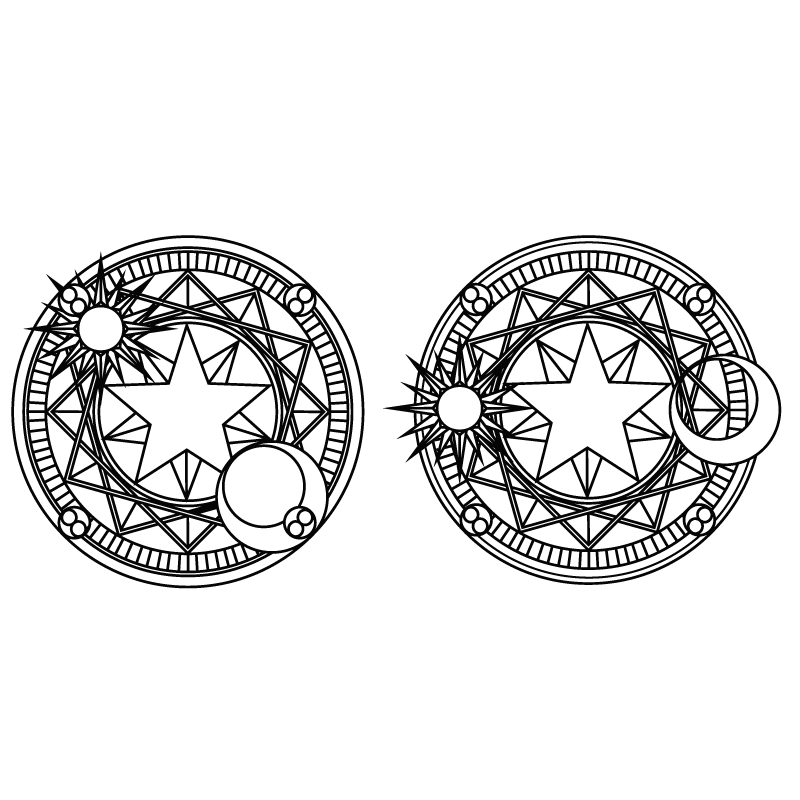
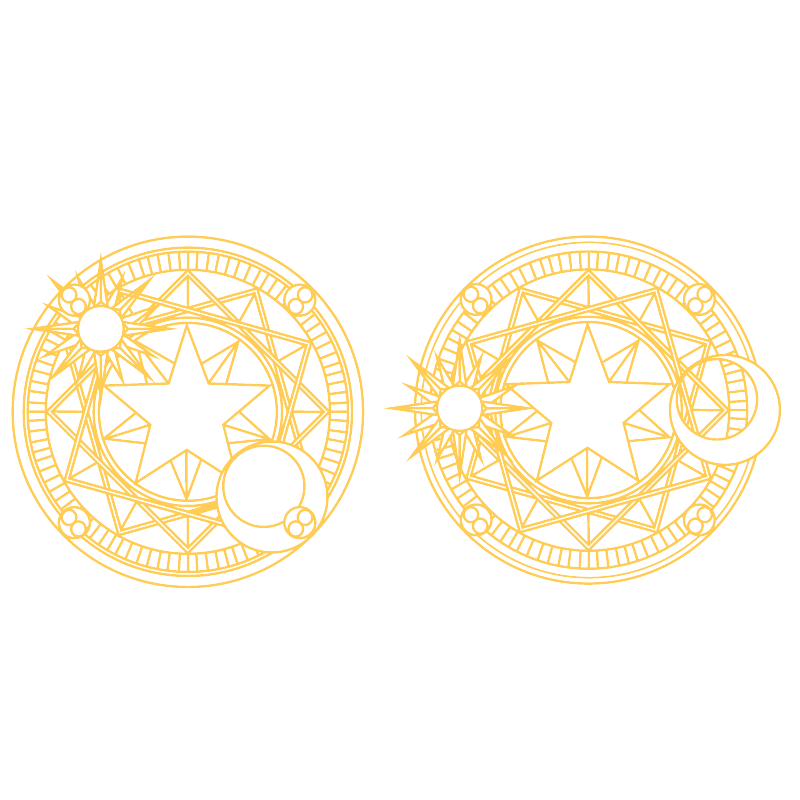
Fixed symbol rotation.

Changed region(s): [[0.5, 0.2812, 1.0, 0.75], [0.0, 0.2812, 0.4688, 0.75]]

diff --git a/wwwroot/reading_page.css b/wwwroot/reading_page.css
@@ -85,12 +85,17 @@ header {
 
 .symbols {
     flex: 1;
+    height: 10%;
+    width: auto;
+    left: 20px;
+    top: 20px;
 }
-
 .symbols > img {
-    height: inherit;
+    height: 18%;
     width: auto;
     position: absolute;
+    left: 20px;
+    top: 20px;
 }
 
 .user_data {
@@ -126,9 +131,9 @@ header {
 }
 
 .rotate_clocwize {
-    animation: rotate 2s infinite;
+    animation: rotate 4s linear infinite;
 }
 
 .rotate_counterclocwize {
-    animation: counter_rotate 2s ease infinite;
+    animation: counter_rotate 4s linear infinite;
 }

diff --git a/Migrations/20240918075543_Initial.Designer.cs b/Migrations/20240918075543_Initial.Designer.cs
@@ -1,0 +1,107 @@
+// <auto-generated />
+using System;
+using Microsoft.EntityFrameworkCore;
+using Microsoft.EntityFrameworkCore.Infrastructure;
+using Microsoft.EntityFrameworkCore.Metadata;
+using Microsoft.EntityFrameworkCore.Migrations;
+using Microsoft.EntityFrameworkCore.Storage.ValueConversion;
+using WebTarotReadings;
+
+#nullable disable
+
+namespace WebTarotReadings.Migrations
+{
+    [DbContext(typeof(AppDbContext))]
+    [Migration("20240918075543_Initial")]
+    partial class Initial
+    {
+        /// <inheritdoc />
+        protected override void BuildTargetModel(ModelBuilder modelBuilder)
+        {
+#pragma warning disable 612, 618
+            modelBuilder
+                .HasAnnotation("ProductVersion", "8.0.8")
+                .HasAnnotation("Relational:MaxIdentifierLength", 128);
+
+            SqlServerModelBuilderExtensions.UseIdentityColumns(modelBuilder);
+
+            modelBuilder.Entity("WebTarotReadings.Models.HoroscopeSignModel", b =>
+                {
+                    b.Property<int>("Id")
+                        .ValueGeneratedOnAdd()
+                        .HasColumnType("int");
+
+                    SqlServerPropertyBuilderExtensions.UseIdentityColumn(b.Property<int>("Id"));
+
+                    b.Property<string>("EndDate")
+                        .IsRequired()
+                        .HasColumnType("nvarchar(max)");
+
+                    b.Property<string>("Sign")
+                        .IsRequired()
+                        .HasColumnType("nvarchar(max)");
+
+                    b.Property<string>("StartDate")
+                        .IsRequired()
+                        .HasColumnType("nvarchar(max)");
+
+                    b.HasKey("Id");
+
+                    b.ToTable("HoroscopeSigns");
+                });
+
+            modelBuilder.Entity("WebTarotReadings.Models.TarotCardsModel", b =>
+                {
+                    b.Property<int>("Id")
+                        .ValueGeneratedOnAdd()
+                        .HasColumnType("int");
+
+                    SqlServerPropertyBuilderExtensions.UseIdentityColumn(b.Property<int>("Id"));
+
+                    b.Property<string>("CardName")
+                        .IsRequired()
+                        .HasColumnType("nvarchar(max)");
+
+                    b.Property<bool>("IsReversed")
+                        .HasColumnType("bit");
+
+                    b.Property<string>("Meaning")
+                        .IsRequired()
+                        .HasColumnType("nvarchar(max)");
+
+                    b.HasKey("Id");
+
+                    b.ToTable("TarotCards");
+                });
+
+            modelBuilder.Entity("WebTarotReadings.Models.UserModel", b =>
+                {
+                    b.Property<int>("Id")
+                        .ValueGeneratedOnAdd()
+                        .HasColumnType("int");
+
+                    SqlServerPropertyBuilderExtensions.UseIdentityColumn(b.Property<int>("Id"));
+
+                    b.Property<DateTime>("BirthDate")
+                        .HasColumnType("datetime2");
+
+                    b.Property<string>("Email")
+                        .HasColumnType("nvarchar(max)");
+
+                    b.Property<string>("HoroscopeSign")
+                        .HasColumnType("nvarchar(max)");
+
+                    b.Property<string>("Password")
+                        .HasColumnType("nvarchar(max)");
+
+                    b.Property<string>("Username")
+                        .HasColumnType("nvarchar(max)");
+
+                    b.HasKey("Id");
+
+                    b.ToTable("Users");
+                });
+#pragma warning restore 612, 618
+        }
+    }
+}

diff --git a/Migrations/20240918075543_Initial.cs b/Migrations/20240918075543_Initial.cs
@@ -1,0 +1,75 @@
+using System;
+using Microsoft.EntityFrameworkCore.Migrations;
+
+#nullable disable
+
+namespace WebTarotReadings.Migrations
+{
+    /// <inheritdoc />
+    public partial class Initial : Migration
+    {
+        /// <inheritdoc />
+        protected override void Up(MigrationBuilder migrationBuilder)
+        {
+            migrationBuilder.CreateTable(
+                name: "HoroscopeSigns",
+                columns: table => new
+                {
+                    Id = table.Column<int>(type: "int", nullable: false)
+                        .Annotation("SqlServer:Identity", "1, 1"),
+                    Sign = table.Column<string>(type: "nvarchar(max)", nullable: false),
+                    StartDate = table.Column<string>(type: "nvarchar(max)", nullable: false),
+                    EndDate = table.Column<string>(type: "nvarchar(max)", nullable: false)
+                },
+                constraints: table =>
+                {
+                    table.PrimaryKey("PK_HoroscopeSigns", x => x.Id);
+                });
+
+            migrationBuilder.CreateTable(
+                name: "TarotCards",
+                columns: table => new
+                {
+                    Id = table.Column<int>(type: "int", nullable: false)
+                        .Annotation("SqlServer:Identity", "1, 1"),
+                    CardName = table.Column<string>(type: "nvarchar(max)", nullable: false),
+                    IsReversed = table.Column<bool>(type: "bit", nullable: false),
+                    Meaning = table.Column<string>(type: "nvarchar(max)", nullable: false)
+                },
+                constraints: table =>
+                {
+                    table.PrimaryKey("PK_TarotCards", x => x.Id);
+                });
+
+            migrationBuilder.CreateTable(
+                name: "Users",
+                columns: table => new
+                {
+                    Id = table.Column<int>(type: "int", nullable: false)
+                        .Annotation("SqlServer:Identity", "1, 1"),
+                    Username = table.Column<string>(type: "nvarchar(max)", nullable: true),
+                    Password = table.Column<string>(type: "nvarchar(max)", nullable: true),
+                    Email = table.Column<string>(type: "nvarchar(max)", nullable: true),
+                    BirthDate = table.Column<DateTime>(type: "datetime2", nullable: false),
+                    HoroscopeSign = table.Column<string>(type: "nvarchar(max)", nullable: true)
+                },
+                constraints: table =>
+                {
+                    table.PrimaryKey("PK_Users", x => x.Id);
+                });
+        }
+
+        /// <inheritdoc />
+        protected override void Down(MigrationBuilder migrationBuilder)
+        {
+            migrationBuilder.DropTable(
+                name: "HoroscopeSigns");
+
+            migrationBuilder.DropTable(
+                name: "TarotCards");
+
+            migrationBuilder.DropTable(
+                name: "Users");
+        }
+    }
+}

diff --git a/FillDb.py b/FillDb.py
@@ -14,7 +14,7 @@ def read_excel_file(file_path, table_name):
 def connect_to_database():
     connection_string = (
         'DRIVER=SQL Server;'
-        'SERVER=DESKTOP-95D9BB6\\SQLEXPRESS;'
+        'SERVER=LAPTOP-ON5UK3V9;'
         'DATABASE=WebTarotDb;'
         'Trusted_Connection=yes;'
     )
@@ -97,7 +97,7 @@ def insert_data_from_excel(table_name, table_data):
 
 
 def main():
-    excel_file = "C:\\Users\\Korisnik\\Desktop\\FAKS\\IanProjekt\\WebTarotReading\\tarot_and_horoscope.xlsx"
+    excel_file = "C:\Petar\Java\WebTarotReadings\WebTarotReadings\\tarot_and_horoscope.xlsx"
     table_names = ["TarotCards", "HoroscopeSigns"] #Input as many tables names as you need
     tables_data = [] #Here will be saved all data from each table in 'table_names'
  

diff --git a/AppDbContext.cs b/AppDbContext.cs
@@ -8,7 +8,6 @@ namespace WebTarotReadings
         public AppDbContext(DbContextOptions<AppDbContext> options) : base(options) { }
 
         public DbSet<UserModel> Users { get; set; }
-
         public DbSet<TarotCardsModel> TarotCards { get; set; }
         public DbSet<HoroscopeSignModel> HoroscopeSigns { get; set; }
     }
